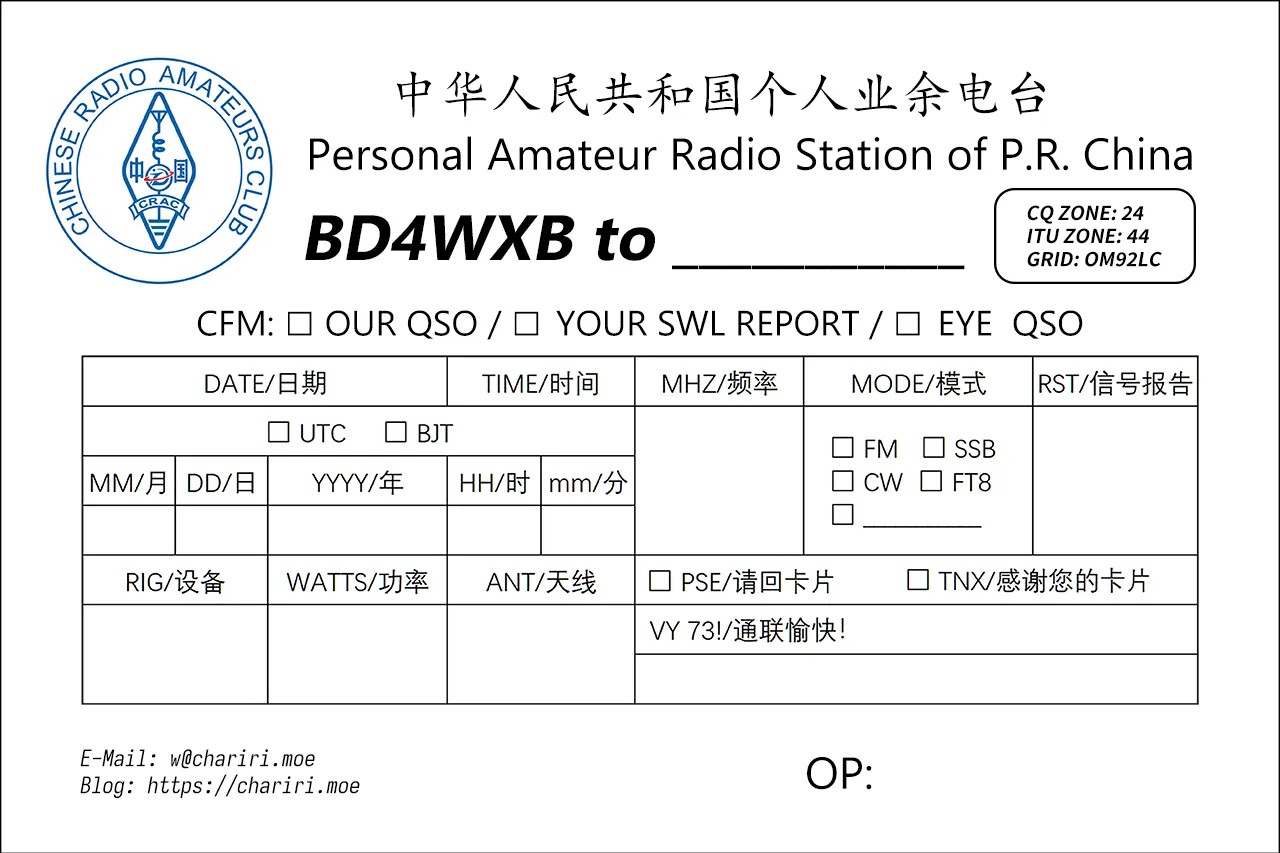
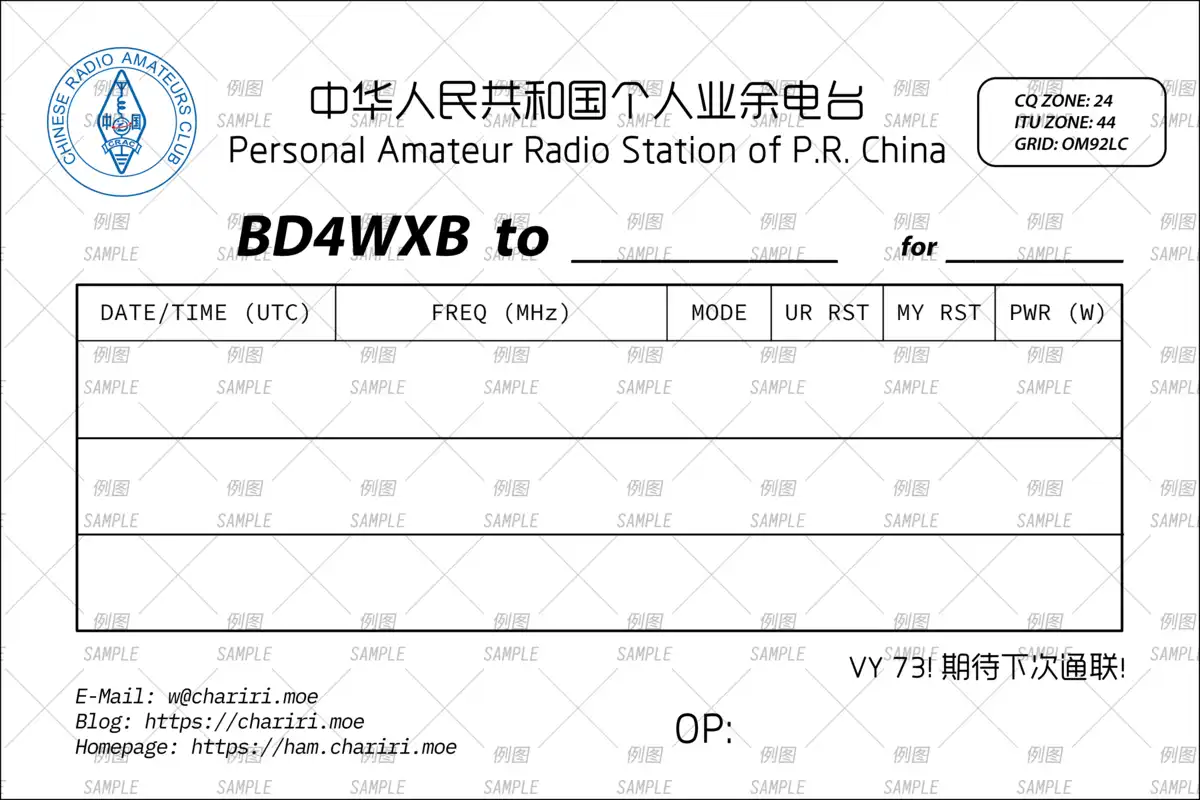
:sparkles: 新QSL卡片

diff --git a/src/index.ts b/src/index.ts
@@ -96,6 +96,14 @@ export class AppMain extends LitElement {
         </div>
         <p class="indent-0 text-center">
           ${msg('我的 QSL 卡片')}<br>
+          ${msg(html`其中正面基于 <a href="https://shiro.love/">Shiro</a> 即 BI3AR 的<a href="https://forum.hamcq.cn/d/418">设计</a>，改造得适用于机打，背面的插画为插画师 <a href="https://space.bilibili.com/524445763">乐韵Jewel</a> 的<a href="https://t.bilibili.com/1054583074411511815">作品</a>`)}
+        </p>
+        <div class="flex justify-evenly justify-items-center my-4 flex-wrap shrink">
+          <img src="assets/QSLCard-v1.webp" class="qsl-img">
+          <img src="assets/QSLCard-Back-v1.webp" class="qsl-img">
+        </div>
+        <p class="indent-0 text-center">
+          ${msg('我的第一版 QSL 卡片（已发完）')}<br>
           ${msg(html`其中正面来自 <a href="https://shiro.love/">Shiro</a> 即 BI3AR 的<a href="https://forum.hamcq.cn/d/418">设计</a>，背面的插画为插画师 <a href="https://www.pixiv.net/users/418969">TID</a> 的作品<a href="https://www.pixiv.net/artworks/99486679">「🍀」</a>`)}
         </p>
       </div>
